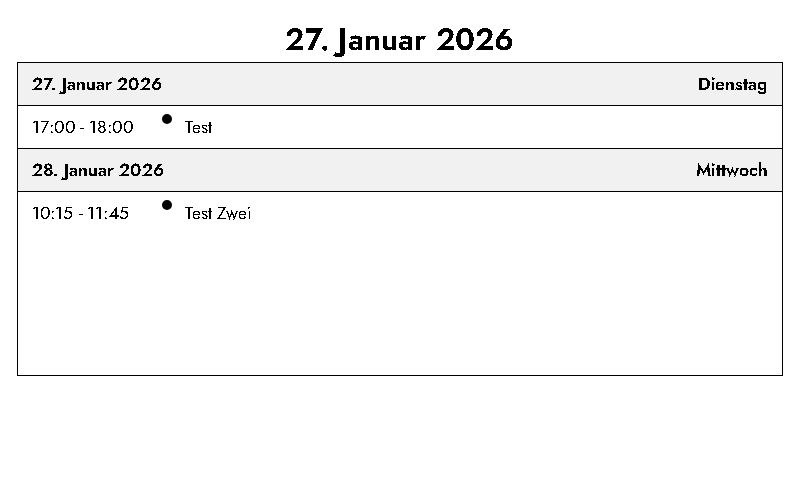
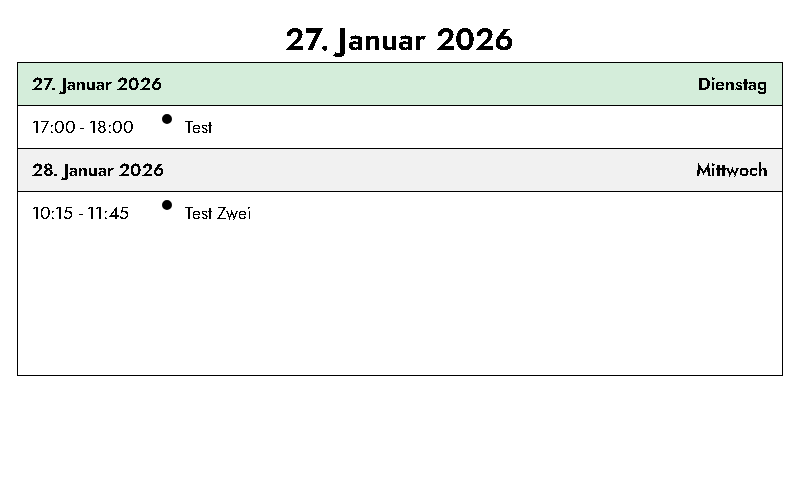
green

Changed region(s): [[0.0, 0.125, 1.0, 0.2188]]

diff --git a/src/plugins/seniorDashboard_allDay/render/seniorDashboard_allDay.css b/src/plugins/seniorDashboard_allDay/render/seniorDashboard_allDay.css
@@ -6,10 +6,16 @@
 }
 
 .calendar {
-  width: 100%;
+  width: 50%;
   height: 100%;
   font-family: "Jost";
   overflow: hidden;
+  float: left;
+}
+
+.calendar .fc {
+  width: 100%;
+  height: 100%;
 }
 
 .fc-toolbar.fc-header-toolbar {
@@ -70,4 +76,26 @@ th {
 
 .fc table {
   font-size: var(--fc-table-font-size) !important;
+}
+
+/* Style today's date header in listMonth view with light green background */
+.fc-listMonth-view .fc-list-day.fc-day-today,
+.fc-list-view .fc-list-day.fc-day-today {
+  background-color: #d4edda !important;
+}
+
+.fc-listMonth-view .fc-list-day.fc-day-today .fc-list-day-text,
+.fc-listMonth-view .fc-list-day.fc-day-today .fc-list-day-side-text,
+.fc-listMonth-view .fc-list-day.fc-day-today .fc-list-day-cushion,
+.fc-list-view .fc-list-day.fc-day-today .fc-list-day-text,
+.fc-list-view .fc-list-day.fc-day-today .fc-list-day-side-text,
+.fc-list-view .fc-list-day.fc-day-today .fc-list-day-cushion {
+  background-color: #d4edda !important;
+}
+
+/* Ensure FullCalendar elements respect the 50% width constraint */
+.calendar .fc-view-harness,
+.calendar .fc-scroller,
+.calendar .fc-scroller-liquid-absolute {
+  width: 100% !important;
 }
